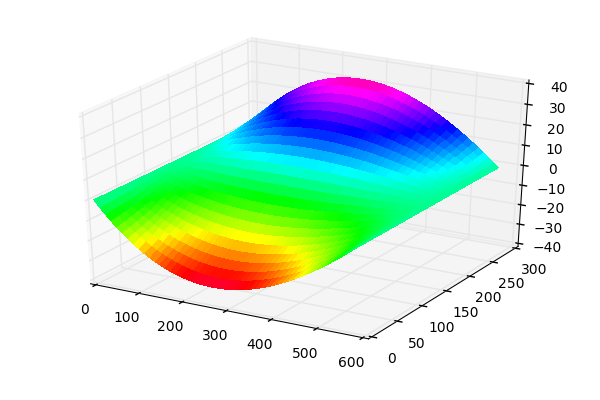
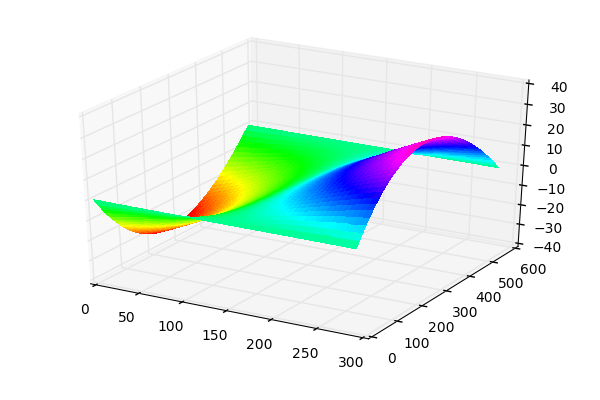
messing around with the mode shape plots

diff --git a/modules/Mod1_Impact/code/package/FRF2Shape.py b/modules/Mod1_Impact/code/package/FRF2Shape.py
@@ -130,7 +130,7 @@ def modeInterp(coords,z,bounds,scale, saveloc, savename):
     fig = plt.figure()
     ax = fig.gca(projection='3d')
     rainbow = cm = plt.get_cmap('gist_rainbow')
-    surf = ax.plot_surface(xInter, yInter, zInter.transpose()*scale, rstride=1,
+    surf = ax.plot_surface(yInter, xInter, zInter.transpose()*scale, rstride=1,
                 cstride=1, cmap=rainbow, linewidth=0, antialiased=False)
 
     plt.tight_layout()

diff --git a/modules/Mod1_Impact/code/package/runMod1.py b/modules/Mod1_Impact/code/package/runMod1.py
@@ -32,7 +32,7 @@ outs = arange(0,15)
 
 ## Compute Shapes from FRF subset
 # use predetermined poles (to be hard coded in future version)
-poles = array([5.54, 7.84, 11.67, 15.34, 19.47])
+poles = array([5.54, 7.84, 15.34, 19.47, 30.79])
 # Run getCMIF
 CMIF, shapes, FRFsub = FRF2Shape.getCMIF(FRF,w,pole=poles,inDOF=ins,outDOF=outs)
 
